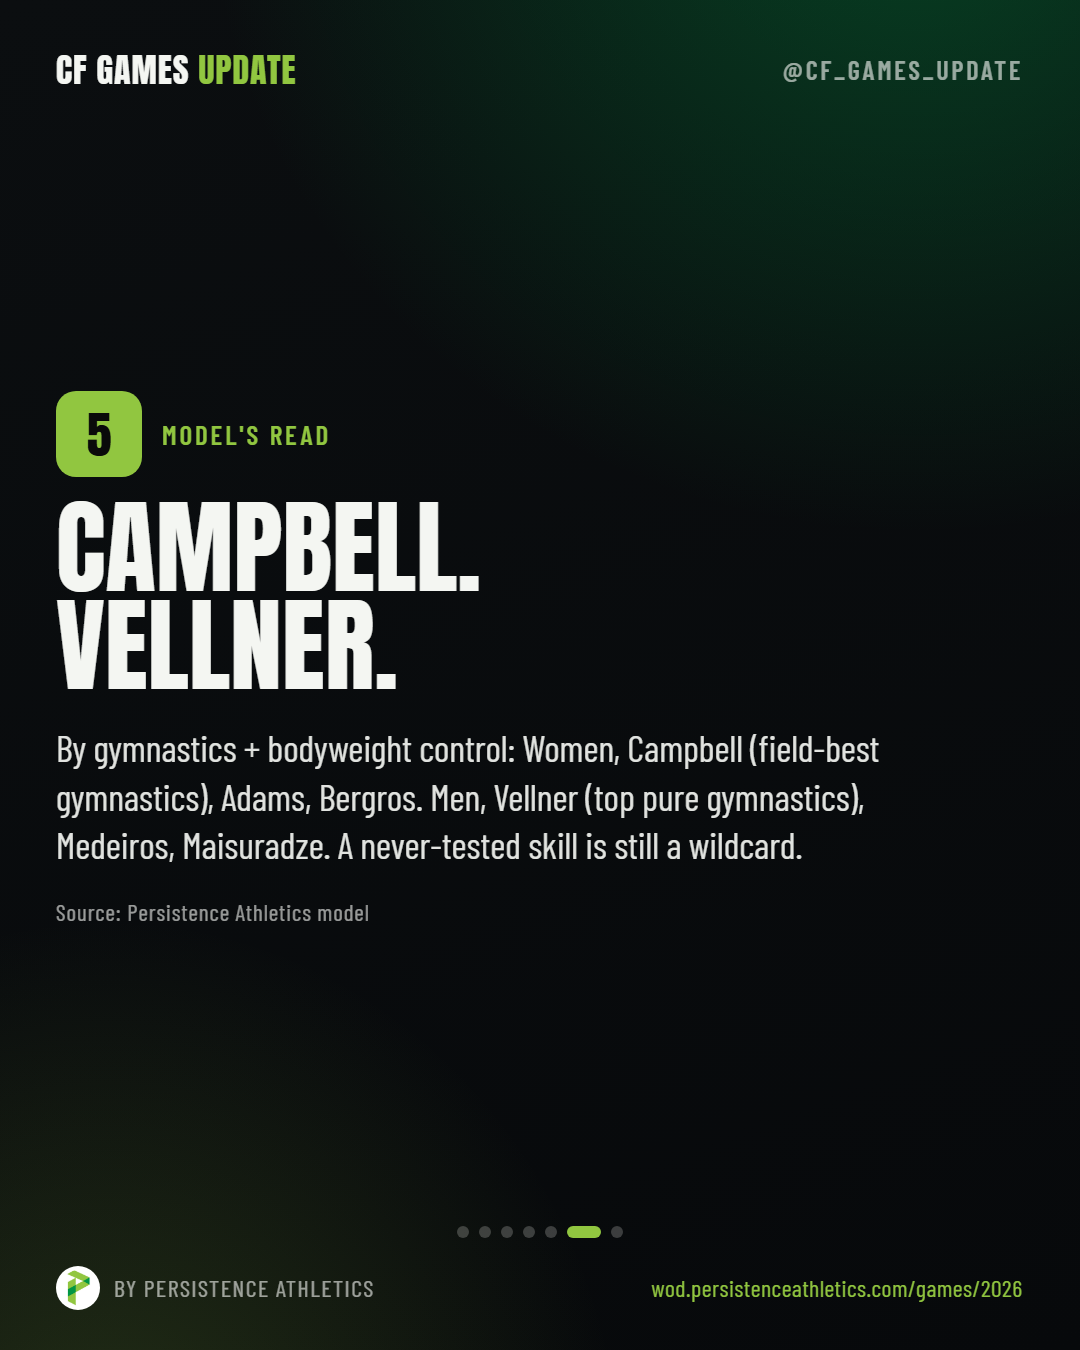
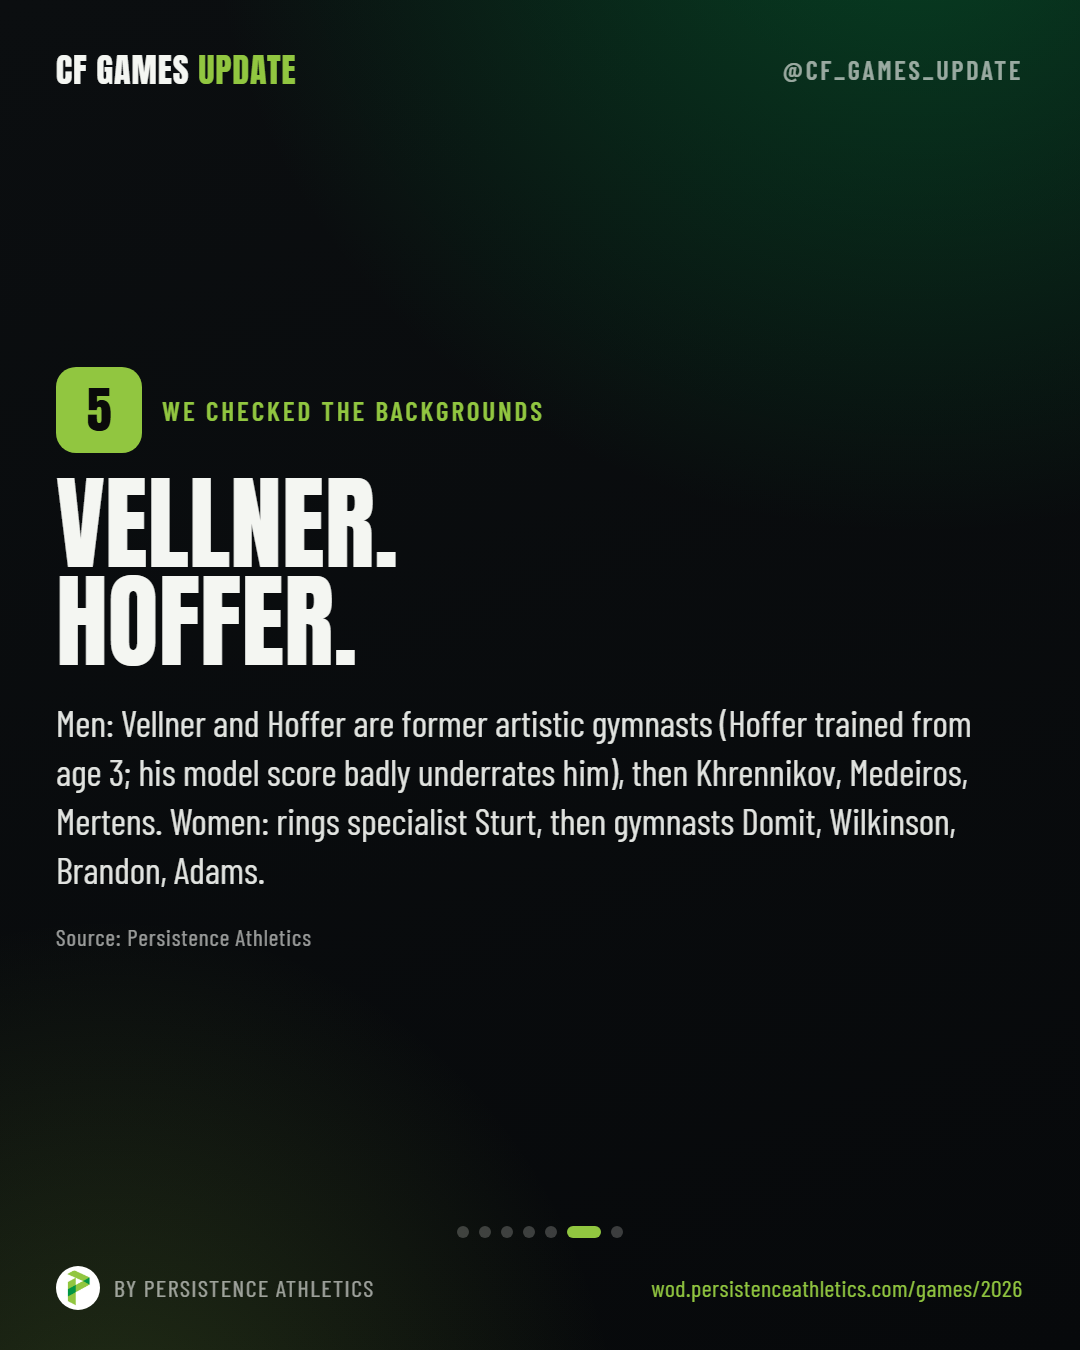
Rework ring-skill Breakdown from verified gymnastics backgrounds
Castro's two never-tested still-rings skills (MU to forward roll to
support, backward roll to support) were reframed from a "wildcard nobody
can do" to a buildable test that rewards real gymnastics pedigree: the
whole field owns the base (strict ring MU, skin-the-cat, strict ring
HSPU) and gets ~2 weeks to drill the additions. Rankings now come from
researched athlete backgrounds, not the season gym-model proxy.

- Men: Vellner + Hoffer (former artistic gymnasts) lead; Hoffer's gym-44
  model score badly underrated him. Then Khrennikov, Medeiros, Mertens
  (UGL backward-roll-to-support reps).
- Women: rings specialist Sturt and gymnasts Domit/Wilkinson/Brandon rise;
  strength-proxy picks (Bergros et al.) drop. Adams #5 as a former gymnast.
- Added a "model's blind spots" callout; rewrote methodology to a
  background-weighted read. Regenerated rings carousel slides + story card.

Changed region(s): [[0.0306, 0.2489, 0.9167, 0.7156]]

diff --git a/src/games/CardStudio.tsx b/src/games/CardStudio.tsx
@@ -171,15 +171,15 @@ const CAROUSELS: Carousel[] = [
     id: 'rings-reveal',
     label: 'Ring Skills Reveal',
     caption:
-      "💍 CASTRO'S RING CURVEBALL. On the Girls Unfiltered podcast + a social post (demoed by Trista Smith & Jacob Marlow), Dave Castro unveiled TWO never-before-tested ring gymnastics skills for a midday Sunday event at the 2026 Games.\n\n1) A ring muscle-up straight into a forward roll to support.\n2) A backward roll to support (a United Grid League staple).\n\nNever tested = a wildcard that could scramble the leaderboard on the final day. Swipe for who's positioned. Full breakdown at the link in bio. A model read, not a result prediction.",
+      "💍 CASTRO'S RING TEST. On the Girls Unfiltered podcast + a social post (demoed by Trista Smith & Jacob Marlow), Dave Castro unveiled TWO never-before-tested ring gymnastics skills for a midday Sunday event at the 2026 Games.\n\n1) A ring muscle-up straight into a forward roll to support.\n2) A backward roll to support (a United Grid League staple).\n\nBut this is NOT a wildcard nobody can do. The whole field already owns the base (strict ring muscle-ups, skin-the-cats, strict ring HSPU) and has two weeks to drill the new pieces, so it rewards the real gymnasts. We checked every athlete's background. Men: Vellner + Hoffer (former artistic gymnasts). Women: Sturt (rings) + Domit (USAG Level 9). Swipe. Full breakdown at the link in bio. A background read, not a result prediction.",
     slides: [
       { type: 'cover', kicker: 'Games News', headline: 'THE RING\nCURVEBALL', sub: 'Castro unveiled two ring skills the Games have NEVER tested, for midday Sunday. Swipe.' },
       { type: 'point', num: 1, kicker: 'The Reveal', headline: 'TWO NEW\nRING SKILLS', body: 'On the Girls Unfiltered podcast and a social post (demoed by Trista Smith and Jacob Marlow), Castro confirmed rings as a centerpiece skill test, with two movements never tested at the Games.', source: 'CF Network News' },
       { type: 'point', num: 2, kicker: 'Skill 1', headline: 'MUSCLE-UP TO\nFORWARD ROLL', body: 'A ring muscle-up straight into a forward roll on the rings, finishing locked out in a support at the top. One continuous, high-control sequence, no stop-and-reset.', source: 'CF Network News' },
       { type: 'point', num: 3, kicker: 'Skill 2', headline: 'BACKWARD ROLL\nTO SUPPORT', body: 'Roll backward through the rings to finish in a straight-arm support. Rare in CrossFit, but a staple of the United Grid League. CrossFit lists ring dips and a strict muscle-up as prerequisites.', source: 'CrossFit coaching' },
-      { type: 'point', num: 4, kicker: 'Why it matters', headline: 'A LATE-DAY\nWILDCARD', body: 'Nobody has competed these at the Games, so there is no proven edge. A never-tested skill is an equalizer, and it lands midday SUNDAY, deep into fatigue. It can scramble the leaderboard on the final day.', source: 'Persistence Athletics model' },
-      { type: 'point', num: 5, kicker: "Model's read", headline: 'CAMPBELL.\nVELLNER.', body: 'By gymnastics + bodyweight control: Women, Campbell (field-best gymnastics), Adams, Bergros. Men, Vellner (top pure gymnastics), Medeiros, Maisuradze. A never-tested skill is still a wildcard.', source: 'Persistence Athletics model' },
-      { type: 'cta', headline: 'FULL\nBREAKDOWN', body: 'What the two skills are, why they are a wildcard, and the full model read for men and women is on the site. A model read, not a result prediction.' },
+      { type: 'point', num: 4, kicker: 'Why it matters', headline: 'NOT A\nWILDCARD', body: 'The whole field already owns the base: strict ring muscle-ups, skin-the-cats, strict ring HSPU. The two new pieces are additions, not a foreign language, and everyone gets two weeks to drill them. So it rewards whoever builds them cleanest: the real gymnasts.', source: 'Persistence Athletics' },
+      { type: 'point', num: 5, kicker: 'We checked the backgrounds', headline: 'VELLNER.\nHOFFER.', body: 'Men: Vellner and Hoffer are former artistic gymnasts (Hoffer trained from age 3; his model score badly underrates him), then Khrennikov, Medeiros, Mertens. Women: rings specialist Sturt, then gymnasts Domit, Wilkinson, Brandon, Adams.', source: 'Persistence Athletics' },
+      { type: 'cta', headline: 'FULL\nBREAKDOWN', body: 'What the two skills are, why the base is universal, and who each athlete is by real gymnastics background is on the site. A background read, not a result prediction.' },
     ],
   },
   {
